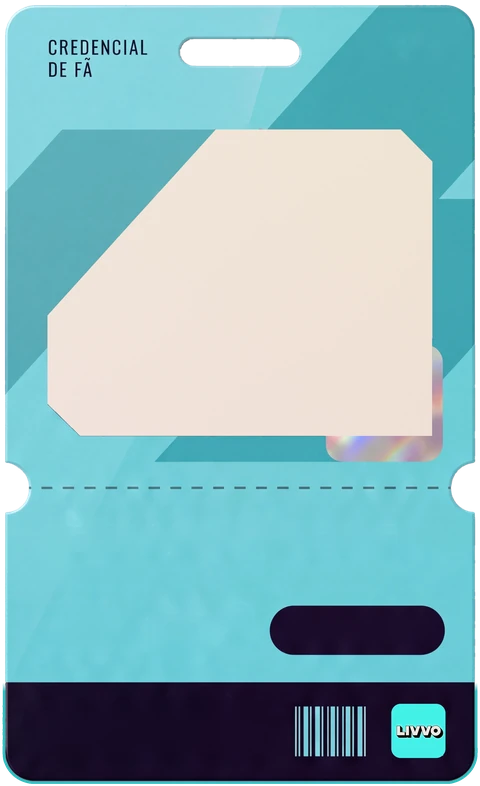
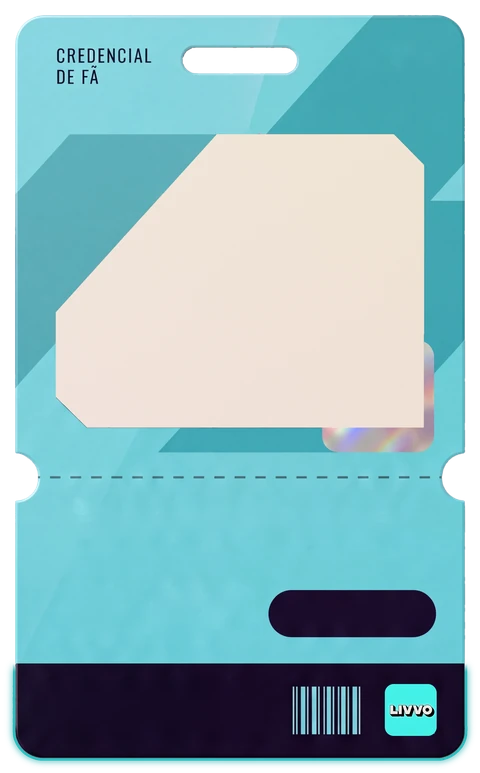
Credencial Backstage: brilho Teal leve em volta do contorno da tarja
Molde com 48 px de margem transparente para o brilho caber (canvas e PNG
2239 x 3605); peça nas mesmas coordenadas. Largura na Wallet ajustada.

Claude-Session: https://claude.ai/code/session_01CN2Wtawc516KrSgqSzAhHC

diff --git a/public/credencial/livvo-credencial.js b/public/credencial/livvo-credencial.js
@@ -8,7 +8,7 @@
 
    Em JS:
      LivvoCredencial.render(elemento, { nome, usuario, shows, numero, desde, foto, nivel?, recortada? })
-     LivvoCredencial.exportarPNG(dados)  -> Promise<Blob>  (PNG transparente 2143 x 3509 px)
+     LivvoCredencial.exportarPNG(dados)  -> Promise<Blob>  (PNG transparente 2239 x 3605 px: peça + margem do brilho)
 
    - nivel: calculado pelo nº de shows (Bronze até 10, Prata 11-25, Ouro 26-50, Platina 51-100, Lenda Viva 101+).
      Pode ser forçado com `nivel` ("Fã Platina", "platina"...).
@@ -17,7 +17,8 @@
    - foto: com fundo transparente (recortada) a pessoa fica sobre a moldura off-white, saindo pelo topo;
      com fundo comum, a foto entra dentro da moldura off-white, com borda creme em volta.
      A detecção é automática (borda transparente); `recortada: true/false` força o modo.
-   Tudo é desenhado num <canvas> com as coordenadas da peça original (2143 x 3509 px), então a tela
+   Tudo é desenhado num <canvas> com as coordenadas da peça original (2143 x 3509 px, mais 48 px de margem
+   em volta para o brilho Teal da tarja), então a tela
    e o PNG exportado saem idênticos. */
 (function () {
   'use strict';
@@ -27,8 +28,10 @@
   })();
 
   // ------------------------------------------------------------------ geometria da peça (px no molde)
-  var W = 2143, H = 3509;
-  var MOLDES = [480, 960, 1440, 2143];
+  var W = 2143, H = 3509;            // coordenadas da peça
+  var PAD = 48;                      // margem transparente do molde (brilho da tarja)
+  var WT = W + 2 * PAD, HT = H + 2 * PAD; // 2239 x 3605: tamanho total do canvas/PNG
+  var MOLDES = [480, 960, 1440, WT];
   var SELO = { x: 1449, y: 1533, w: 535, h: 535 };
   var BOLINHA = { x: 1794, y: 2736, s: 156 };
   // moldura off-white (polígono) e área interna usada pela foto comum (30 px de borda creme)
@@ -98,8 +101,8 @@
   function urlMolde(larguraPx) {
     var w = MOLDES[MOLDES.length - 1];
     for (var i = 0; i < MOLDES.length; i++) if (MOLDES[i] >= larguraPx) { w = MOLDES[i]; break; }
-    if (w === 2143 && larguraPx >= 2143) return BASE + 'img/credencial-molde-2143.png';
-    if (!suportaWebp) return BASE + (w > 960 ? 'img/credencial-molde-2143.png' : 'img/credencial-molde-960.png');
+    if (w === WT && larguraPx >= WT) return BASE + 'img/credencial-molde-' + WT + '.png';
+    if (!suportaWebp) return BASE + (w > 960 ? 'img/credencial-molde-' + WT + '.png' : 'img/credencial-molde-960.png');
     return BASE + 'img/credencial-molde-' + w + '.webp';
   }
   function urlCamada(nome) { return BASE + 'img/' + nome + (suportaWebp ? '.webp' : '.png'); }
@@ -264,16 +267,17 @@
       carregarFoto(d.foto).catch(function () { return null; })
     ]).then(function (r) {
       var molde = r[1], selo = r[2], bolinha = r[3], foto = r[4];
-      var esc = larguraPx / W;
+      var esc = larguraPx / WT;
       canvas.width = Math.round(larguraPx);
-      canvas.height = Math.round(H * esc);
+      canvas.height = Math.round(HT * esc);
       var ctx = canvas.getContext('2d');
       ctx.setTransform(1, 0, 0, 1, 0, 0);
       ctx.clearRect(0, 0, canvas.width, canvas.height);
       ctx.imageSmoothingEnabled = true;
       ctx.imageSmoothingQuality = 'high';
       ctx.setTransform(esc, 0, 0, esc, 0, 0);
-      ctx.drawImage(molde, 0, 0, W, H);
+      ctx.drawImage(molde, 0, 0, WT, HT);
+      ctx.translate(PAD, PAD); // daqui em diante, coordenadas da peça
 
       // foto
       var modo = null;
@@ -339,7 +343,7 @@
   function larguraAlvo(el) {
     var css = el.getBoundingClientRect().width || 360;
     var px = css * Math.min(window.devicePixelRatio || 1, 3);
-    return Math.max(240, Math.min(W, Math.round(px)));
+    return Math.max(240, Math.min(WT, Math.round(px)));
   }
 
   function render(el, dados) {
@@ -374,7 +378,7 @@
 
   function exportarPNG(dados, largura) {
     var c = document.createElement('canvas');
-    return desenhar(c, dados, largura || W).then(function (info) {
+    return desenhar(c, dados, largura || WT).then(function (info) {
       if (!info.exportavel) throw new Error('A foto vem de outro domínio sem CORS; não é possível exportar o PNG.');
       return new Promise(function (ok, erro) {
         c.toBlob(function (b) { b ? ok(b) : erro(new Error('Falha ao gerar o PNG.')); }, 'image/png');

diff --git a/src/index.css b/src/index.css
@@ -1241,11 +1241,11 @@ select.lv-input optgroup {
   }
 }
 
-/* Credencial Backstage (canvas na proporção da arte, 2143 x 3509) */
+/* Credencial Backstage (canvas na proporção da arte com a margem do brilho, 2239 x 3605) */
 .livvo-credencial {
   position: relative;
   display: block;
-  aspect-ratio: 2143 / 3509;
+  aspect-ratio: 2239 / 3605;
   user-select: none;
 }
 .livvo-credencial > .lc-canvas {
@@ -1254,7 +1254,7 @@ select.lv-input optgroup {
   height: 100%;
 }
 .lv-badge-slot .lv-credencial {
-  width: 230px;
+  width: 240px;
   filter: drop-shadow(0 16px 24px rgba(0, 0, 0, 0.5));
 }
 @media (min-width: 1024px) {
@@ -1263,7 +1263,7 @@ select.lv-input optgroup {
     margin-top: 0;
   }
   .lv-badge-slot .lv-credencial {
-    width: 250px;
+    width: 256px;
   }
 }
 

diff --git a/src/components/TicketWallet.tsx b/src/components/TicketWallet.tsx
@@ -147,7 +147,7 @@ export const TicketWallet: React.FC<TicketWalletProps> = ({
     };
     reader.readAsDataURL(file);
   };
-  // Compartilhar credencial: PNG transparente em resolução cheia (2143 x 3509)
+  // Compartilhar credencial: PNG transparente em resolução cheia (2239 x 3605, com o brilho)
   const [gerandoCredencial, setGerandoCredencial] = useState(false);
   const compartilharCredencial = async () => {
     if (!stats || gerandoCredencial) return;
